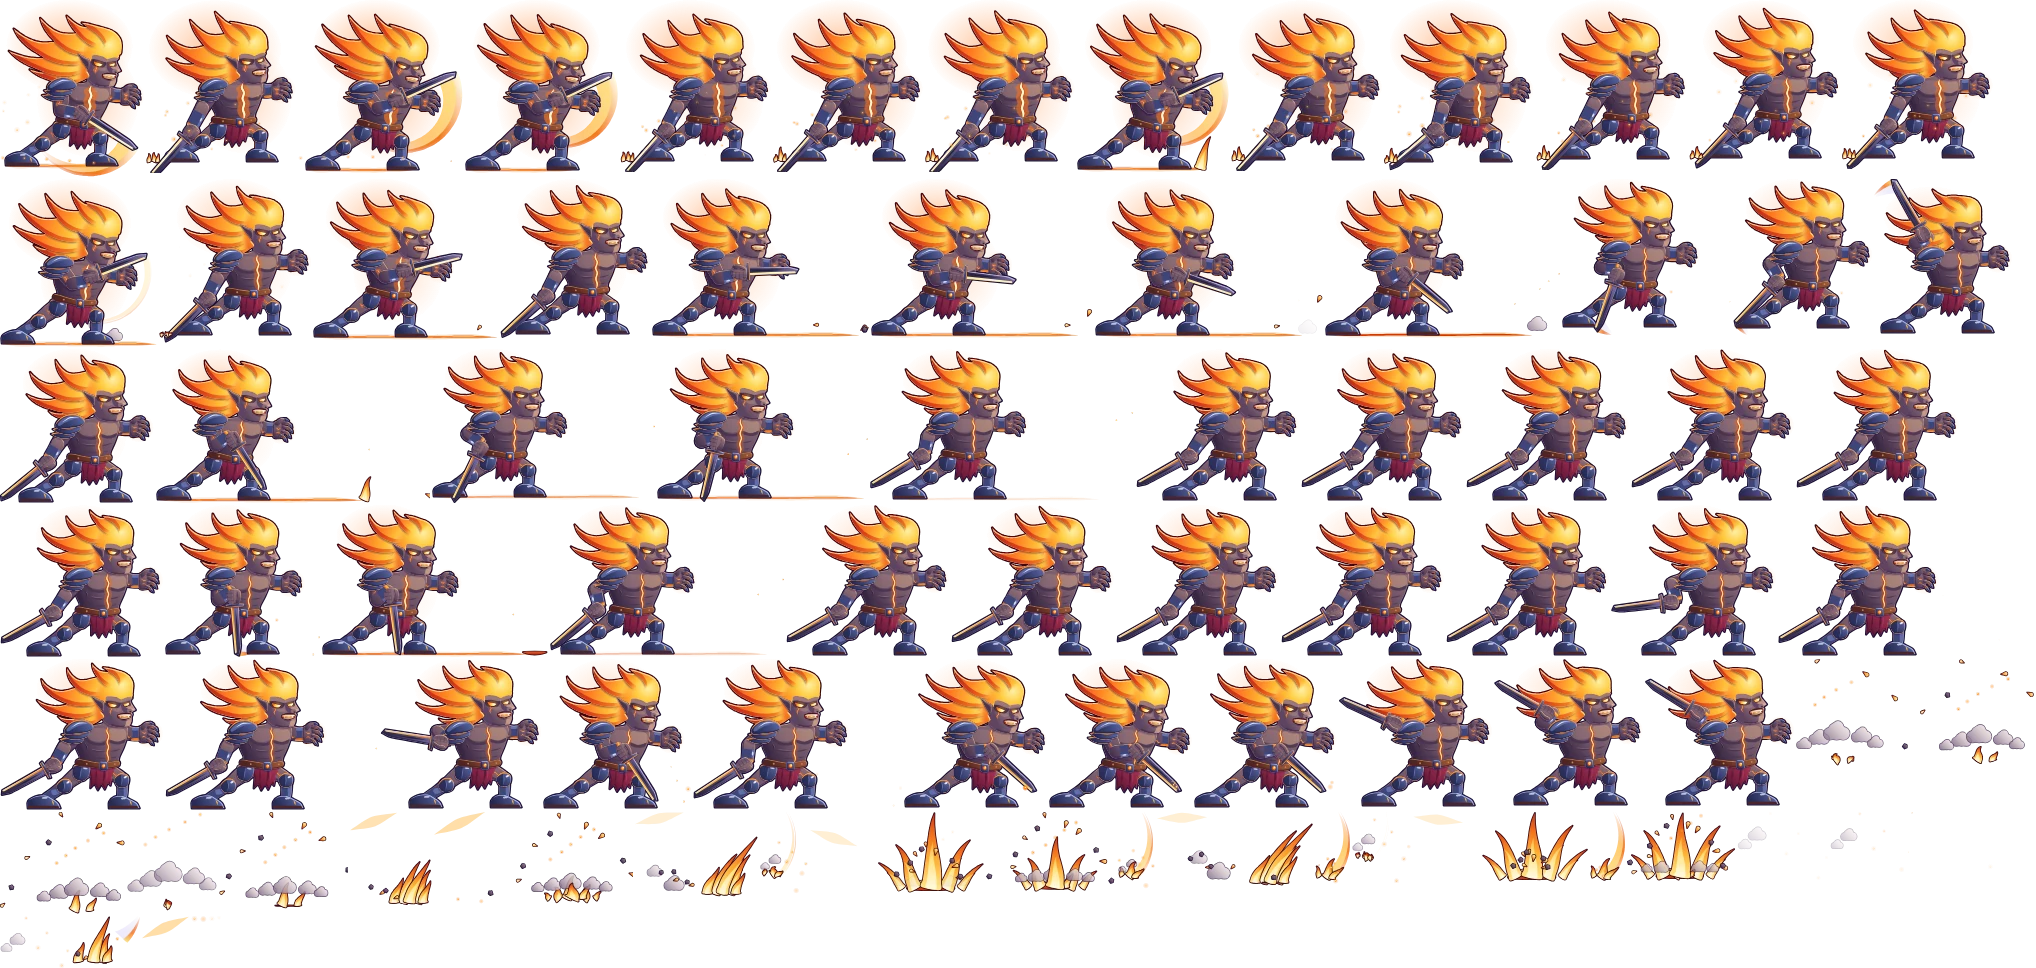
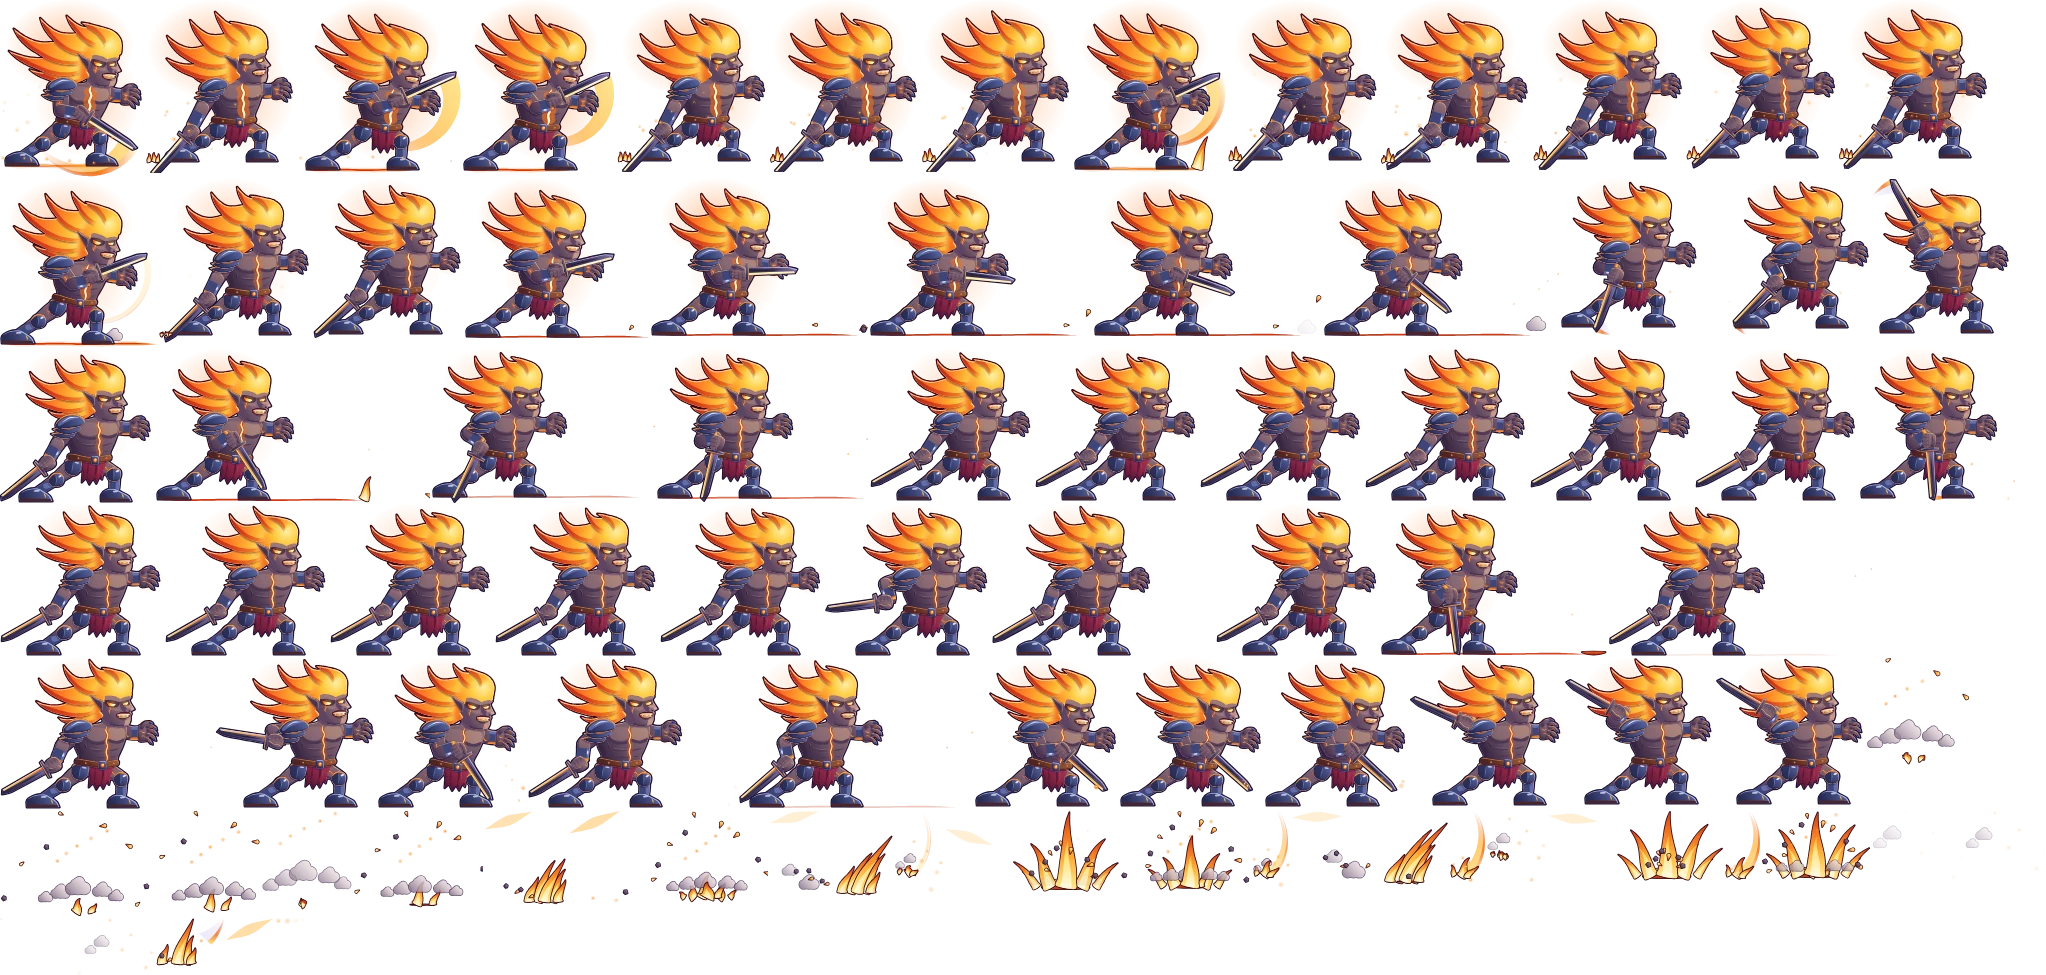
Travail en cours (dessins et outils, hors code du jeu)
Claude-Session: https://claude.ai/code/session_01StTiAZjvnzYLiVPjaUWZHe

diff --git a/refonte-graphique/ui-moderne/heros/jarek/jeu.py b/refonte-graphique/ui-moderne/heros/jarek/jeu.py
@@ -17,7 +17,9 @@ JEU = {
     'pose': dict(periode=1000 * A.IDLE_T, images=10),
     # le tir en cloche : la flèche part au lâcher (REL), le jeu la fait voler jusqu'à la vraie cible ; elle s'y plante
     'attaque': dict(genre='tir', tir=A.REL, coup=A.REL + A.FLY, cible=(A.FOE[0], A.FOE[1]), depuis=BOUCHE[0] + 3,
-                    coupe=180, bouche=BOUCHE, projectile=fleche, proj_images=1, arc=10),
+                    coupe=140, bouche=BOUCHE, projectile=fleche, proj_images=1, arc=26),
     # « Averse des steppes » : il se charge, tire vers le ciel ; la volée retombe sur l'ennemi
-    'speciale': dict(genre='sort', coup=A.S_HIT, cible=(A.FOE[0], A.FOE[1]), coupe=150, charge=(130, A.SREL - 10)),
+    # (la flèche qui monte reste avec lui jusqu'à x = 150 ; dès que la volée tombe, tout ce qui est devant lui part sur la cible)
+    'speciale': dict(genre='sort', coup=A.S_HIT, cible=(A.FOE[0], A.FOE[1]), charge=(130, A.SREL - 10),
+                     coupe=lambda t: 150 if t < A.S_BURST else 112),
 }

diff --git a/refonte-graphique/ui-moderne/jeu_export_vecto.py b/refonte-graphique/ui-moderne/jeu_export_vecto.py
@@ -435,6 +435,8 @@ def export_one(folder, voir=None):
                 for k in ('arc', 'rase'):
                     if k in cfg:
                         a[k] = cfg[k]
+                if cfg.get('arc'):
+                    a['suit'] = 1          # le projectile suit la courbe de son vol (la flèche bascule)
                 ids = dict(projs)[which]
                 a['proj'] = [add_cell(pimgs[q], (0, 0), pview) for q in ids]
                 a['projMs'] = cfg.get('proj_ms', [80] * len(ids))
